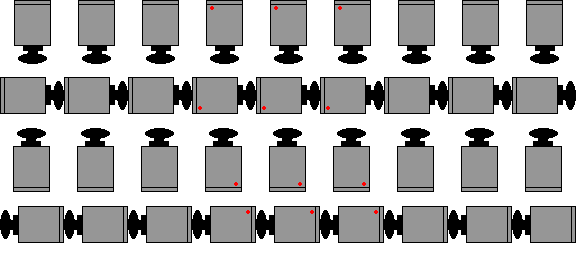
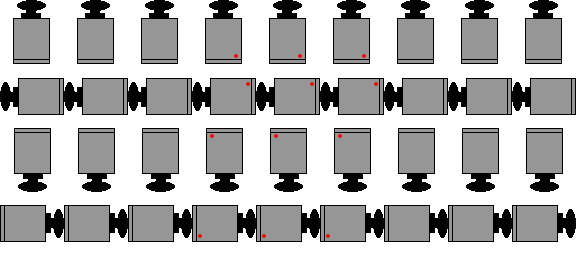
luces de camaras mejoradas

diff --git a/core/src/com/poo/hackerman/view/GameScreen.java b/core/src/com/poo/hackerman/view/GameScreen.java
@@ -284,7 +284,7 @@ public class GameScreen extends ScreenAdapter {
         Gdx.gl.glBlendFunc(GL20.GL_SRC_ALPHA, GL20.GL_ONE_MINUS_SRC_ALPHA);
         shapeRenderer.begin(ShapeRenderer.ShapeType.Filled);
         float x1 = enemy.getX();
-        float y1 = enemy.getY();
+        float y1 = enemy.getY() + GameMap.CELL_SIZE/2;
         int start = 45 - enemy.getDirection().getCode() * 45;
         if(enemy.getDynamicEntity().getClass().equals(CameraGuard.class)) {
             shapeRenderer.setColor(new Color(Color.RED.r, Color.RED.g, Color.RED.b, 0.5f));

diff --git a/core/src/com/poo/hackerman/model/Managers/GameModel.java b/core/src/com/poo/hackerman/model/Managers/GameModel.java
@@ -33,7 +33,7 @@ public class GameModel {
 
     public GameModel() {
         levels = new ArrayList<Level>();
-        levels.add(new Level("levels/level1.txt"));
+        levels.add(new Level("levels/level2.txt"));
         levels.add(new Level("levels/level2.txt"));
         levels.add(new Level("levels/level3.txt"));
         lives = MAX_LIVES;
